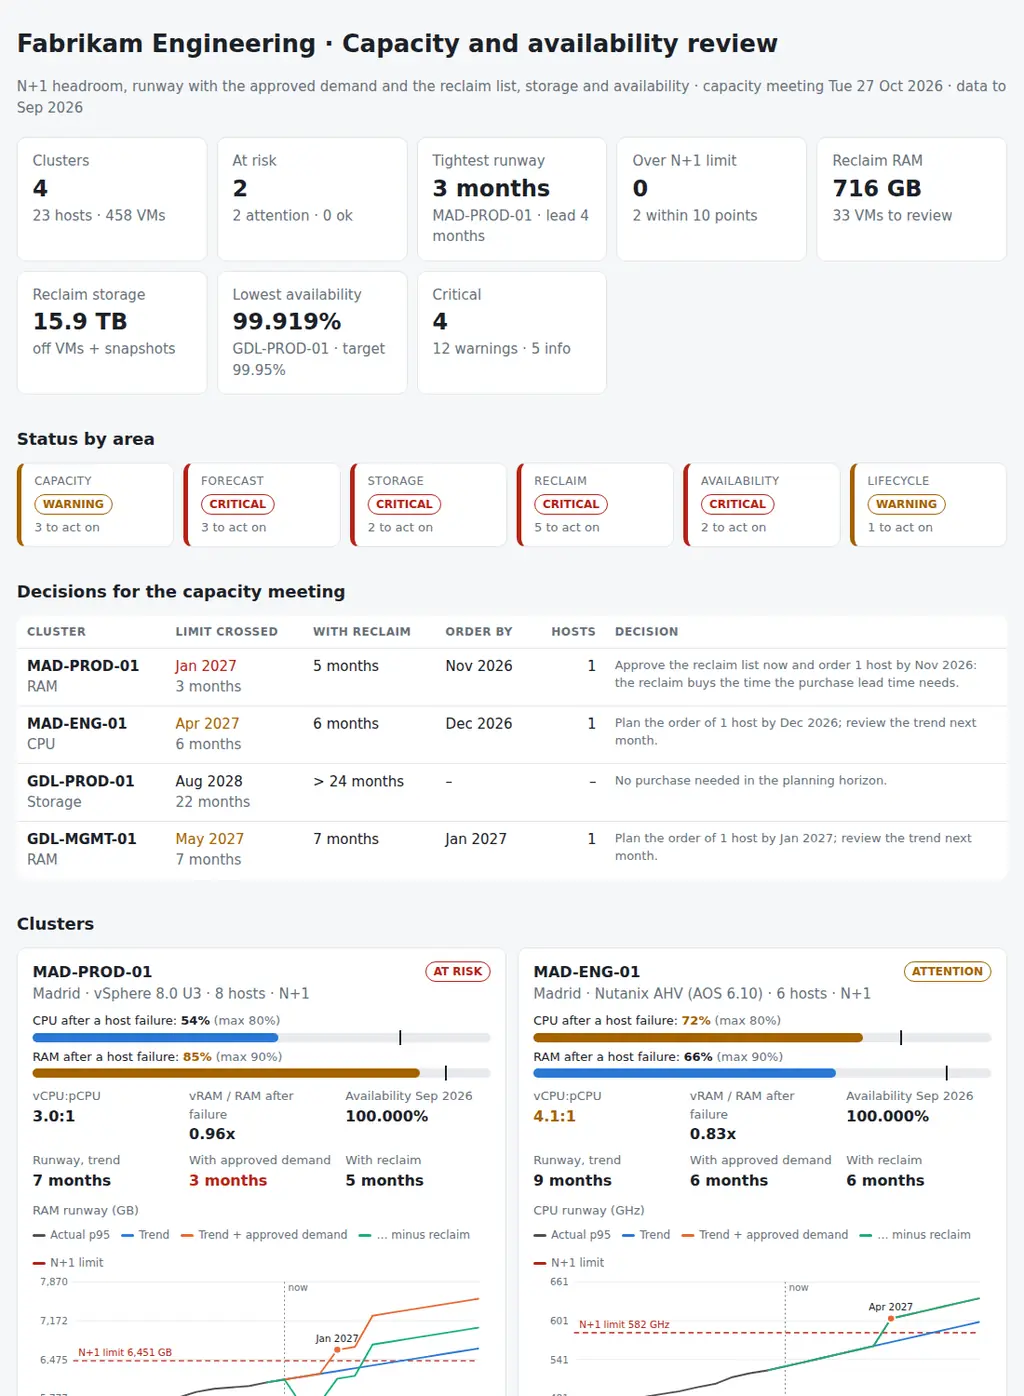
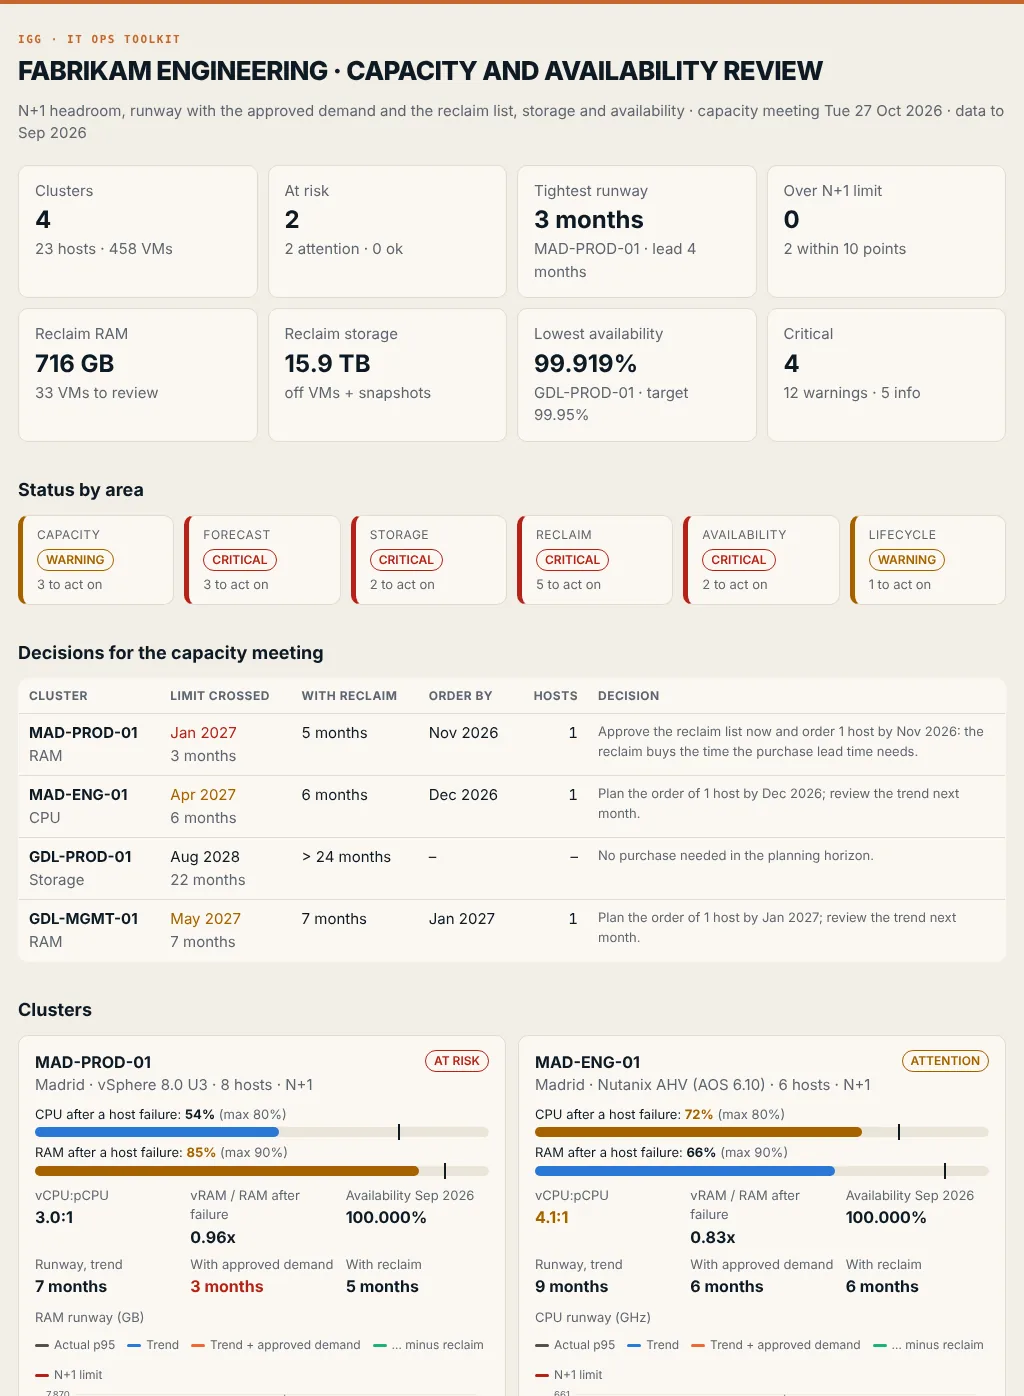
Report: IGG colours (paper, ink and the orange accent) and a new screenshot

diff --git a/capreview/report.py b/capreview/report.py
@@ -249,11 +249,11 @@ def review_md(d: Data, findings: list[Finding], b: dict) -> str:
 # ---------------------------------------------------------------- html
 
 CSS = """
-:root{--bg:#f6f7f8;--card:#fff;--ink:#1b2128;--muted:#66717c;--line:#e2e5e9;--ok:#1e7a4c;--warn:#a46200;--bad:#b42318;--info:#0b6bcb;
---s1:#2a78d6;--s2:#eb6834;--s3:#1baf7a;--hist:#52514e;--grid:#e8eaed}
-@media (prefers-color-scheme:dark){:root{--bg:#13171b;--card:#1b2127;--ink:#e7eaee;--muted:#9aa5b0;--line:#2b333b;--ok:#4cc38a;--warn:#f0a83a;
+:root{--bg:#f2eee6;--card:#fbf8f3;--ink:#0e1a24;--muted:#5d6670;--line:#e2dccf;--ok:#1e7a4c;--warn:#a46200;--bad:#b42318;--info:#1f5f8b;
+--s1:#2a78d6;--s2:#eb6834;--s3:#1baf7a;--hist:#52514e;--grid:#ebe5da}
+@media (prefers-color-scheme:dark){:root{--bg:#0e1a24;--card:#142331;--ink:#f2eee6;--muted:#a9b3bb;--line:#24364a;--ok:#4cc38a;--warn:#f0a83a;
 --bad:#f2685c;--info:#5aa9f0;--s1:#3987e5;--s2:#d95926;--s3:#199e70;--hist:#c3c2b7;--grid:#2b333b}}
-*{box-sizing:border-box}body{margin:0;background:var(--bg);color:var(--ink);font:15px/1.5 system-ui,-apple-system,Segoe UI,sans-serif}
+*{box-sizing:border-box}body{border-top:4px solid #c4672b}h1{font-weight:800;letter-spacing:-.025em;text-transform:uppercase;line-height:1.05}h1::before{content:"IGG · IT Ops toolkit";display:block;font:600 11px/1.4 ui-monospace,SFMono-Regular,Menlo,monospace;letter-spacing:.14em;text-transform:uppercase;color:#c4672b;margin-bottom:10px}body{margin:0;background:var(--bg);color:var(--ink);font:15px/1.5 system-ui,-apple-system,Segoe UI,sans-serif}
 main{max-width:1100px;margin:0 auto;padding:28px 18px 60px}h1{font-size:26px;margin:0 0 4px}h2{font-size:18px;margin:34px 0 12px}
 .muted{color:var(--muted)}.tiles{display:grid;grid-template-columns:repeat(auto-fit,minmax(200px,1fr));gap:10px;margin-top:20px}
 .tile{background:var(--card);border:1px solid var(--line);border-radius:10px;padding:14px 16px}.tile b{display:block;font-size:24px;white-space:nowrap}
